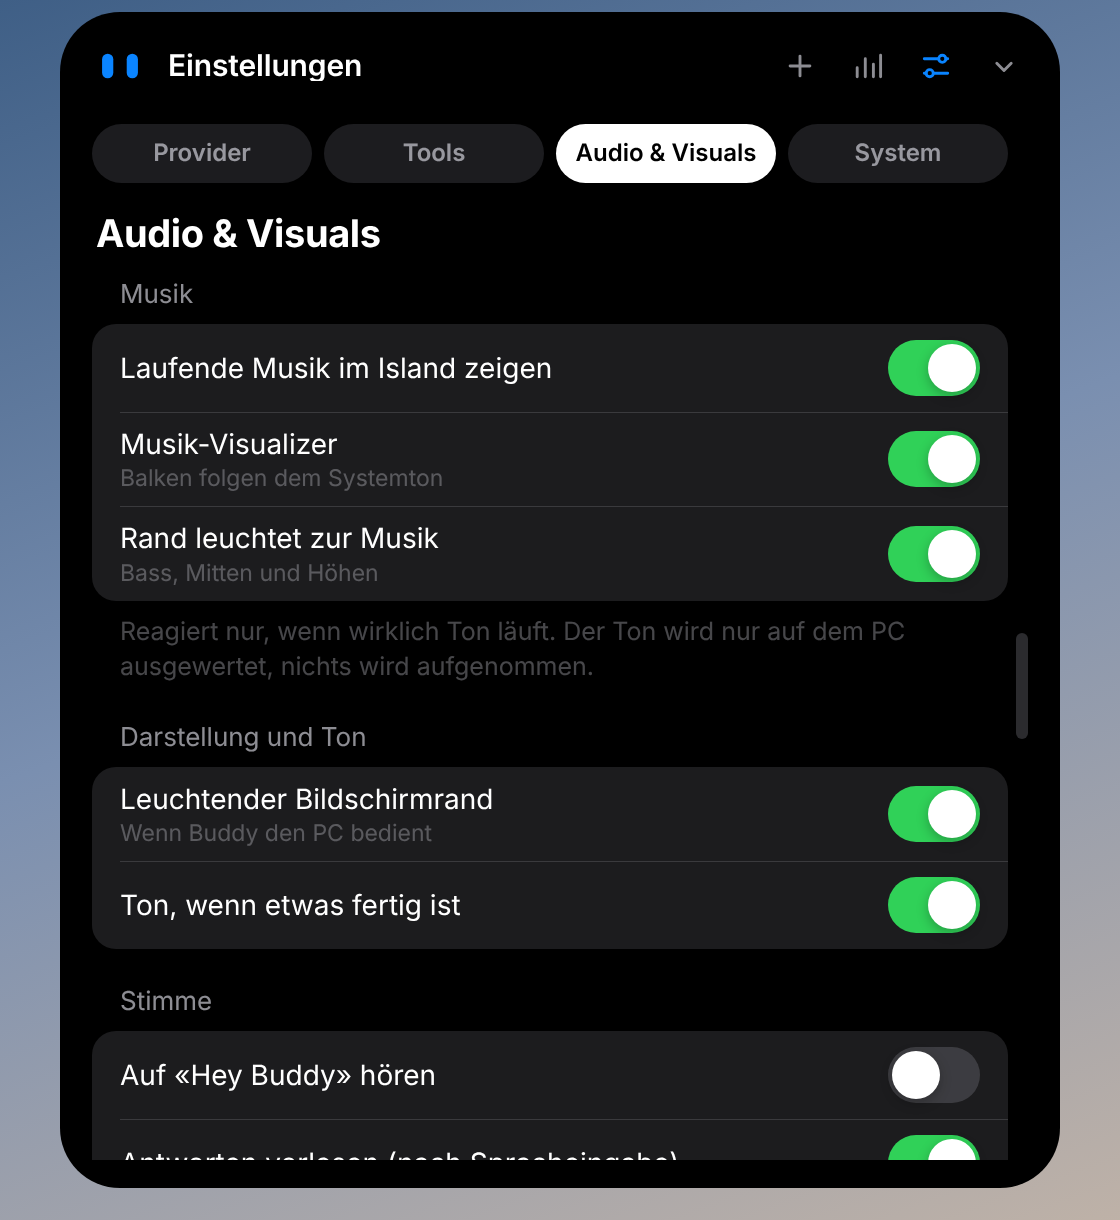
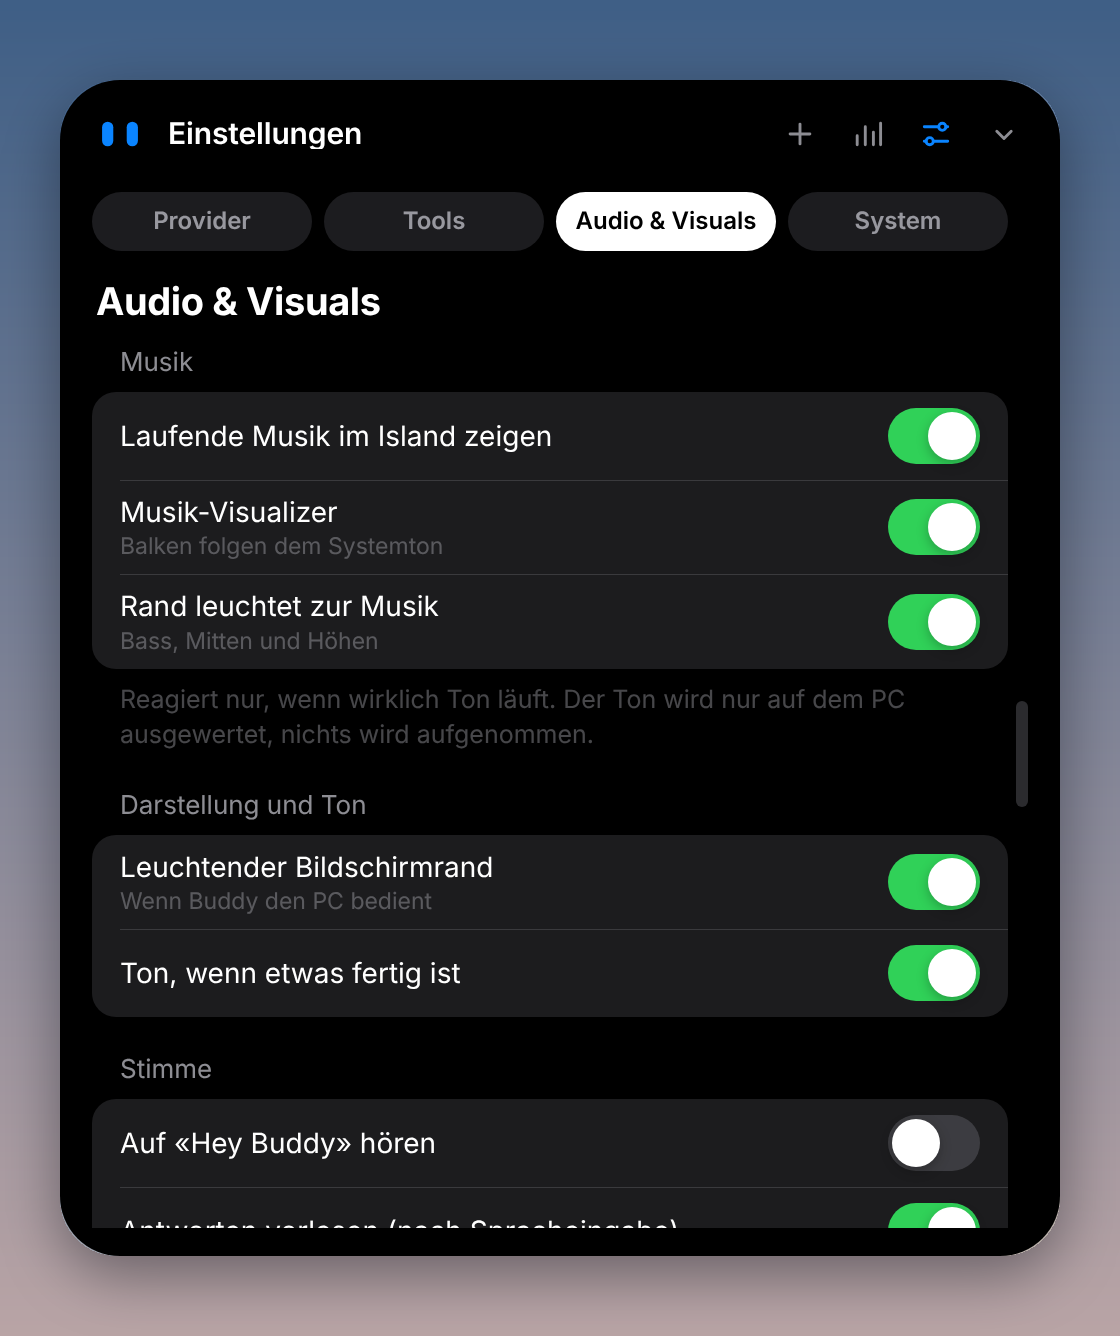
Website symmetrisch und kundenfreundlich formuliert
- Texte ohne Fachbegriffe (z. B. «Einfachere Bedienung» statt «Weniger
  Technik», «Kostet Buddy etwas?» statt «Brauche ich einen API-Key?»)
- Alles auf einer Mittelachse: Navigation dreigeteilt, Karten zentriert,
  gleich breite Reihen, letzte Reihe mittig, Installation als vier Karten,
  Fragen zentriert, Vorschau-Fenster mittig
- Screenshots in gleich grossen Rahmen, Island jeweils mittig

Claude-Session: https://claude.ai/code/session_019aeRaodHXNXqEmeAxLVjik

diff --git a/index.html b/index.html
@@ -33,15 +33,15 @@
   <main id="top">
     <!-- Hero -->
     <section class="hero">
-      <p class="eyebrow"><span class="version-tag" data-version>Version 0.7.1</span> · Windows 10 &amp; 11</p>
+      <p class="eyebrow"><span class="version-tag" data-version>Version 0.7.1</span> · Für Windows 10 &amp; 11</p>
       <h1>Dein Assistent wohnt<br>oben am Bildschirm.</h1>
-      <p class="lead">Ein kleines Island oben in der Mitte von Windows: Fragen, Timer, Musik und Mitteilungen. Gratis mit lokaler KI oder mit Claude, OpenAI, Grok und Gemini.</p>
+      <p class="lead">Buddy wohnt als kleine Insel oben in der Mitte deines Bildschirms. Er beantwortet Fragen, stellt Timer und zeigt deine Musik und Nachrichten. Gratis und ohne Anmeldung.</p>
       <div class="cta" id="download">
         <a class="btn" id="downloadBtn" href="https://github.com/wolfawidmer-sudo/buddy-island/releases/latest">
           <svg viewBox="0 0 20 20" aria-hidden="true"><path d="M10 3.5v9M6 9l4 4 4-4M4 16.5h12"/></svg>
           Für Windows herunterladen
         </a>
-        <p class="cta-note"><span id="downloadInfo">Gratis · ca. 120 MB</span> · ohne Konto, <a href="#faq-key">API-Key optional</a></p>
+        <p class="cta-note"><span id="downloadInfo">Gratis · ca. 120 MB</span> · ohne Anmeldung</p>
       </div>
 
       <!-- Vorschau: animiertes Island auf einem Bildschirm -->
@@ -74,13 +74,13 @@
       <p class="kicker"><span data-version>Version 0.7.1</span><span id="newsDate"></span></p>
       <h2>Neu in <span data-version-short>0.7</span>.</h2>
       <div class="news" id="newsList">
-        <article class="news-item"><h3>Gemini wieder startklar</h3><p>Buddy nimmt automatisch die neuste Gemini-Version, die dein Konto anbietet. Modelle, die Google nicht mehr anbietet, überspringt er selbst.</p></article>
-        <article class="news-item"><h3>Visualizer, der wirklich zuhört</h3><p>Die Balken folgen Bass, Mitten und Höhen des echten Tons. Ist Spotify nur offen oder pausiert, bleibt alles ruhig.</p></article>
-        <article class="news-item"><h3>Leuchtender Rand im Takt</h3><p>Der Bildschirmrand leuchtet in deiner Akzentfarbe um den ganzen Bildschirm, auch über der Taskleiste, und pulsiert zur Musik.</p></article>
-        <article class="news-item"><h3>Eingabefeld immer sichtbar</h3><p>Egal wie lang die Unterhaltung wird: Das Eingabefeld bleibt unten, alles darüber scrollt für sich.</p></article>
-        <article class="news-item"><h3>Weniger Technik</h3><p>Modellnamen und Fehlercodes erscheinen nur noch auf Wunsch. Der Rand leuchtet nur, wenn Buddy wirklich länger deinen PC bedient.</p></article>
+        <article class="news-item"><h3>Gemini wieder voll dabei</h3><p>Mit Google Gemini startet Buddy jetzt ohne Umwege. Er wählt von selbst die aktuellste Version, die dir zur Verfügung steht.</p></article>
+        <article class="news-item"><h3>Musik, die man sieht</h3><p>Die Balken im Island tanzen zu Bass, Mitten und Höhen deiner Musik. Ist sie pausiert, wird es ruhig.</p></article>
+        <article class="news-item"><h3>Ein Rand, der mitschwingt</h3><p>Der ganze Bildschirm leuchtet sanft in deiner Lieblingsfarbe und pulsiert im Takt.</p></article>
+        <article class="news-item"><h3>Immer Platz zum Schreiben</h3><p>Egal wie lang das Gespräch wird: Das Eingabefeld bleibt unten griffbereit.</p></article>
+        <article class="news-item"><h3>Einfachere Bedienung</h3><p>Aufgeräumter und klarer: Buddy zeigt nur noch, was für dich wichtig ist.</p></article>
       </div>
-      <figure class="wide"><img src="img/glow.png" width="960" height="600" alt="Bildschirmrand leuchtet in der Akzentfarbe, auch über der Taskleiste"><figcaption>Der Rand leuchtet in deiner Akzentfarbe um den ganzen Bildschirm und reagiert auf Bass, Mitten und Höhen.</figcaption></figure>
+      <figure class="wide"><img src="img/glow.png" width="960" height="600" alt="Der Bildschirmrand leuchtet blau, auch über der Taskleiste"><figcaption>Dein Bildschirm leuchtet sanft im Takt deiner Musik, in deiner Lieblingsfarbe.</figcaption></figure>
       <p class="more"><a href="https://github.com/wolfawidmer-sudo/buddy-island/releases">Alle Versionen auf GitHub →</a></p>
     </section>
 
@@ -90,51 +90,39 @@
       <div class="features">
         <article class="feature">
           <svg viewBox="0 0 24 24" aria-hidden="true"><circle cx="6" cy="7" r="2.5"/><circle cx="18" cy="7" r="2.5"/><circle cx="12" cy="17.5" r="2.5"/><path d="M8 8.5l2.8 6.6M16 8.5l-2.8 6.6M8.5 7h7"/></svg>
-          <h3>KI nach Wahl</h3>
-          <p>Gratis und offline mit einem lokalen Modell oder mit deinem Key für Claude, OpenAI, Grok oder Gemini. Buddy wählt das passende Modell selbst.</p>
+          <h3>Deine KI, deine Wahl</h3>
+          <p>Gratis direkt auf deinem PC oder mit Claude, OpenAI, Grok und Gemini. Buddy sucht sich selbst die passende Stufe aus.</p>
         </article>
         <article class="feature">
           <svg viewBox="0 0 24 24" aria-hidden="true"><path d="M6 16V11a6 6 0 1 1 12 0v5l1.5 2h-15z"/><path d="M10 20.5a2 2 0 0 0 4 0"/></svg>
-          <h3>Alltag im Blick</h3>
-          <p>Timer, Termine und Mitteilungen erscheinen oben im Island statt unten rechts.</p>
+          <h3>Alles auf einen Blick</h3>
+          <p>Timer, Termine und Nachrichten erscheinen oben, genau dort, wo du hinschaust.</p>
         </article>
         <article class="feature">
           <svg viewBox="0 0 24 24" aria-hidden="true"><path d="M9 18V6l10-2v12"/><circle cx="6.5" cy="18" r="2.5"/><circle cx="16.5" cy="16" r="2.5"/></svg>
-          <h3>Musik mit Visualizer</h3>
-          <p>Cover und Steuerung im Island, Balken und Bildschirmrand folgen dem echten Ton.</p>
+          <h3>Musik zum Anschauen</h3>
+          <p>Cover, Steuerung und Balken, die im Takt deiner Lieblingssongs tanzen.</p>
         </article>
         <article class="feature">
           <svg viewBox="0 0 24 24" aria-hidden="true"><path d="M5 4l5 15 2.5-6.5L19 10z"/></svg>
-          <h3>Bedient deinen PC</h3>
-          <p>Auf Wunsch übernimmt Buddy Maus und Tastatur. Er fragt vorher und lässt sich jederzeit stoppen.</p>
+          <h3>Hilft am PC mit</h3>
+          <p>Auf Wunsch klickt und tippt Buddy für dich. Er fragt immer zuerst und lässt sich jederzeit stoppen.</p>
         </article>
       </div>
       <div class="gallery">
-        <figure><img src="img/music.png" width="560" height="348" alt="Offenes Island mit laufender Musik und Vorschlägen"><figcaption>Musik und Vorschläge</figcaption></figure>
-        <figure><img src="img/chat.png" width="560" height="504" alt="Chat mit Timer und Mitteilung"><figcaption>Timer und Mitteilungen</figcaption></figure>
-        <figure><img src="img/settings.png" width="560" height="610" alt="Einstellungen für Musik, Visualizer und Bildschirmrand"><figcaption>Einfache Einstellungen</figcaption></figure>
+        <figure><img src="img/music.png" width="560" height="668" alt="Buddy mit laufender Musik und Ideen, was du fragen kannst"><figcaption>Musik und Ideen</figcaption></figure>
+        <figure><img src="img/chat.png" width="560" height="668" alt="Buddy mit Timer und einer neuen Nachricht"><figcaption>Timer und Nachrichten</figcaption></figure>
+        <figure><img src="img/settings.png" width="560" height="668" alt="Einstellungen für Musik und Bildschirmrand"><figcaption>Einstellungen mit einem Klick</figcaption></figure>
       </div>
     </section>
 
     <section class="section" id="installation">
       <h2>In zwei Minuten startklar.</h2>
       <ol class="steps">
-        <li>
-          <span class="step-n">1</span>
-          <div><h3>Installer laden</h3><p>Klick oben auf «Für Windows herunterladen».</p></div>
-        </li>
-        <li>
-          <span class="step-n">2</span>
-          <div><h3>Installieren</h3><p>Doppelklick auf die Datei. Zeigt Windows «Der Computer wurde durch Windows geschützt», klick auf «Weitere Informationen» → «Trotzdem ausführen». Buddy ist (noch) nicht kostenpflichtig signiert.</p></div>
-        </li>
-        <li>
-          <span class="step-n">3</span>
-          <div><h3>KI einrichten</h3><p>Klick aufs Island und dann auf «Lokale KI einrichten»: Buddy wählt das passende Modell für deinen PC und lädt es. Lieber Claude, OpenAI, Grok oder Gemini? Füge in den Einstellungen unter «Provider &amp; API-Keys» deinen Key ein.</p></div>
-        </li>
-        <li>
-          <span class="step-n">4</span>
-          <div><h3>Loslegen</h3><p>Mit <kbd>Strg</kbd> + <kbd>Umschalt</kbd> + <kbd>Leertaste</kbd> öffnest du Buddy von überall. Updates kommen automatisch.</p></div>
-        </li>
+        <li><span class="step-n">1</span><h3>Herunterladen</h3><p>Klick oben auf «Für Windows herunterladen».</p></li>
+        <li><span class="step-n">2</span><h3>Installieren</h3><p>Doppelklick auf die Datei. Falls Windows nachfragt: «Weitere Informationen» → «Trotzdem ausführen».</p></li>
+        <li><span class="step-n">3</span><h3>KI wählen</h3><p>Klick aufs Island und auf «Lokale KI einrichten». Oder nutze Claude, OpenAI, Grok oder Gemini.</p></li>
+        <li><span class="step-n">4</span><h3>Loslegen</h3><p>Mit <kbd>Strg</kbd> + <kbd>Umschalt</kbd> + <kbd>Leertaste</kbd> öffnest du Buddy überall. Updates kommen von selbst.</p></li>
       </ol>
     </section>
 
@@ -142,16 +130,16 @@
       <h2>Deine Daten bleiben bei dir.</h2>
       <div class="privacy-grid">
         <div class="card">
-          <h3>Keine Server, kein Konto</h3>
-          <p>Buddy läuft nur auf deinem PC. Keine Werbung, keine Statistiken.</p>
+          <h3>Kein Konto nötig</h3>
+          <p>Buddy läuft auf deinem PC. Keine Werbung, kein Tracking.</p>
         </div>
         <div class="card">
-          <h3>Verschlüsselt gespeichert</h3>
-          <p>API-Keys und Kalender-Link liegen mit der Windows-Verschlüsselung nur auf deinem PC. Lokale Modelle schicken gar nichts weg.</p>
+          <h3>Sicher verwahrt</h3>
+          <p>Deine Zugangsdaten sind verschlüsselt auf deinem PC gespeichert. Die lokale KI schickt gar nichts weg.</p>
         </div>
         <div class="card">
-          <h3>Du entscheidest</h3>
-          <p>Texte gehen nur an den KI-Anbieter, den du wählst. Bildschirmfotos nur bei der PC-Steuerung mit Claude, und nur nachdem du erlaubt hast.</p>
+          <h3>Du hast die Kontrolle</h3>
+          <p>Deine Fragen gehen nur an den Anbieter, den du wählst. Auf deinen Bildschirm schaut Buddy nur, wenn du es erlaubst.</p>
         </div>
       </div>
       <p class="more"><a href="privacy.html">Ganze Datenschutzerklärung lesen →</a></p>
@@ -161,23 +149,23 @@
       <h2>Fragen</h2>
       <div class="faq">
         <details id="faq-key">
-          <summary>Brauche ich einen API-Key?</summary>
-          <p>Nein. Ohne Key läuft Buddy mit einem lokalen Modell gratis auf deinem PC. Ein Key von Claude, OpenAI, xAI (Grok) oder Google (Gemini) macht die Antworten klüger und ist nötig für die PC-Steuerung (nur Claude). Du bezahlst beim Anbieter nur, was du brauchst, meist wenige Rappen pro Unterhaltung.</p>
+          <summary>Kostet Buddy etwas?</summary>
+          <p>Nein. Mit der lokalen KI ist Buddy komplett gratis. Wer noch klügere Antworten möchte, verbindet Claude, OpenAI, Grok oder Gemini und zahlt dort nur, was er braucht, meist wenige Rappen pro Gespräch.</p>
         </details>
         <details>
           <summary>In welcher Sprache antwortet Buddy?</summary>
-          <p>In der Sprache von Windows. Die Oberfläche gibt es auf Deutsch, Englisch und Französisch, für andere Sprachen ist sie englisch, die Antworten kommen trotzdem in deiner Sprache. In den Einstellungen kannst du die Sprache auch fest wählen.</p>
+          <p>In der Sprache deines Windows. Die Oberfläche gibt es auf Deutsch, Englisch und Französisch.</p>
         </details>
         <details>
           <summary>Warum warnt Windows beim Installieren?</summary>
-          <p>Programme ohne kostenpflichtiges Signatur-Zertifikat zeigen beim ersten Start eine SmartScreen-Warnung. Buddy ist ein Testprojekt und deshalb noch nicht signiert.</p>
+          <p>Buddy ist ein junges Projekt und hat noch kein kostenpflichtiges Zertifikat. Darum fragt Windows beim ersten Start nach. Mit «Weitere Informationen» → «Trotzdem ausführen» geht es weiter.</p>
         </details>
         <details>
           <summary>Stört Buddy beim Gamen?</summary>
-          <p>Nein. Im Spielmodus versteckt sich Buddy, sobald ein Spiel oder eine Vollbild-App läuft: keine Pop-ups, kein Ton, keine Steuerung.</p>
+          <p>Nein. Sobald ein Spiel oder ein Vollbild läuft, versteckt sich Buddy ganz.</p>
         </details>
         <details>
-          <summary>Wie deinstalliere ich Buddy?</summary>
+          <summary>Wie entferne ich Buddy?</summary>
           <p>Windows-Einstellungen → Apps → Buddy Island → Deinstallieren.</p>
         </details>
       </div>
@@ -186,7 +174,7 @@
 
   <footer class="footer">
     <p>Buddy Island ist ein Testprojekt von Wolf Widmer · <span data-version>Version 0.7.1</span></p>
-    <p>Nutzt die offiziellen APIs von Anthropic, OpenAI, xAI und Google oder lokale Modelle über Hugging Face Transformers. Kein offizielles Produkt dieser Firmen, von Apple oder Microsoft.</p>
+    <p>Funktioniert mit Claude, OpenAI, Grok und Gemini oder ganz lokal. Kein offizielles Produkt dieser Firmen, von Apple oder Microsoft.</p>
     <p><a href="privacy.html">Datenschutz</a> · <a href="https://github.com/wolfawidmer-sudo/buddy-island">Quellcode auf GitHub</a></p>
   </footer>
 

diff --git a/style.css b/style.css
@@ -345,3 +345,55 @@ figcaption { margin-top: 10px; font-size: 14px; color: var(--text-3); text-align
 .wide img { width: 100%; height: auto; }
 @media (max-width: 900px) { .news { grid-template-columns: repeat(2, 1fr); } }
 @media (max-width: 560px) { .news { grid-template-columns: 1fr; } }
+
+/* ---------- Symmetrie: alles auf einer Mittelachse ----------
+   Navigation dreigeteilt (Marke | Links mittig | Download), Karten zentriert gesetzt,
+   Reihen mit gleich breiten Karten, unvollständige letzte Reihen mittig. */
+.nav { display: grid; grid-template-columns: 1fr auto 1fr; }
+.nav-links { margin-left: 0; justify-self: center; }
+.nav .btn.small { justify-self: end; }
+
+.feature, .news-item, .card, .steps li { text-align: center; }
+.feature svg { display: block; margin: 0 auto; }
+
+/* Karten-Reihen: gleich breit, letzte Reihe zentriert */
+.news, .features, .privacy-grid, .steps {
+  display: flex; flex-wrap: wrap; justify-content: center; gap: 14px;
+}
+.news > *, .privacy-grid > * { flex: 0 1 calc((100% - 28px) / 3); }
+.features > *, .steps > * { flex: 0 1 calc((100% - 42px) / 4); }
+.news-item.fix h3::after { content: none; }
+.news-item.fix h3::before { content: none; }
+
+/* Installation als vier gleiche Karten */
+.steps { max-width: none; margin: 48px 0 0; }
+.steps li { flex-direction: column; align-items: center; gap: 0; padding: 24px; }
+.steps h3 { margin: 14px 0 6px; }
+
+/* Fragen: mittige Spalte, Frage zentriert, Plus darunter nicht nötig – daneben, symmetrisch gepolstert */
+.faq summary { justify-content: center; text-align: center; padding: 20px 48px; position: relative; }
+.faq summary::after { position: absolute; right: 22px; top: 50%; transform: translateY(-50%); }
+.faq details[open] summary::after { transform: translateY(-50%) rotate(45deg); }
+.faq p { text-align: center; padding: 0 32px 22px; }
+
+.gallery { align-items: stretch; }
+.gallery figure { display: flex; flex-direction: column; align-items: center; }
+
+@media (max-width: 900px) {
+  .news > *, .privacy-grid > *, .features > *, .steps > * { flex-basis: calc((100% - 14px) / 2); }
+}
+@media (max-width: 560px) {
+  .nav { grid-template-columns: 1fr auto; }
+  .news > *, .privacy-grid > *, .features > *, .steps > * { flex-basis: 100%; }
+}
+
+/* Vorschau-Bildschirm: Fenster und Licht mittig */
+.window { left: 27%; }
+.wallpaper {
+  background:
+    radial-gradient(90% 70% at 50% 0%, #3a4152 0%, transparent 60%),
+    radial-gradient(80% 60% at 50% 100%, #3d383d 0%, transparent 65%),
+    linear-gradient(180deg, #20232b, #121318);
+}
+.taskbar i:first-child { background: rgba(255, 255, 255, 0.14); }
+.taskbar i:nth-child(3) { background: rgba(255, 255, 255, 0.3); }

diff --git a/script.js b/script.js
@@ -11,11 +11,11 @@
   const scenes = [
     { state: 'idle', label: '', caption: 'Im Ruhezustand zeigt Buddy nur seine Augen.', ms: 2600 },
     { state: 'idle', label: '', notch: true, caption: 'Nach oben gezogen wird das Island zur schwarzen Kerbe am Rand.', ms: 2600 },
-    { state: 'busy', label: 'denkt …', caption: 'Frag etwas: Buddy denkt lokal oder mit Claude, OpenAI, Grok oder Gemini nach.', ms: 2400 },
-    { state: 'music', label: 'Midnight Drive · Nova Lane', caption: 'Läuft Musik, folgen Balken und Bildschirmrand dem echten Ton.', ms: 4200, music: true },
-    { state: 'peek', small: 'WhatsApp', label: 'Lea: Kommst du heute ins Training?', caption: 'Mitteilungen kommen oben statt unten rechts.', ms: 3200 },
+    { state: 'busy', label: 'denkt …', caption: 'Frag einfach drauflos, Buddy denkt mit.', ms: 2400 },
+    { state: 'music', label: 'Midnight Drive · Nova Lane', caption: 'Läuft Musik, tanzen Balken und Bildschirmrand im Takt.', ms: 4200, music: true },
+    { state: 'peek', small: 'WhatsApp', label: 'Lea: Kommst du heute ins Training?', caption: 'Nachrichten erscheinen oben, wo du hinschaust.', ms: 3200 },
     { state: 'timer', label: 'Pizza  9:58', caption: '«Stell einen Timer für die Pizza.»', ms: 2600, tick: true },
-    { state: 'control', label: 'Klickt …', caption: 'Bedient Buddy länger den PC, leuchtet der Rand.', ms: 4200, glow: true },
+    { state: 'control', label: 'Klickt …', caption: 'Hilft Buddy am PC mit, leuchtet der Rand.', ms: 4200, glow: true },
   ];
 
   let i = 0;
